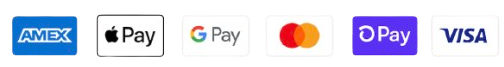
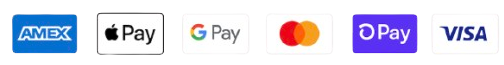
s

diff --git a/index.html b/index.html
@@ -687,7 +687,12 @@
 							<li><a href="#"><span class="icon fa fa-phone"></span><span class="text">037 217
 										300</span></a></li>
 							<li><a href="#"><span class="icon fa fa-paper-plane"></span><span
-										class="text">kmutnb@email.kmutnb.ac.th <img src="./images/payment/payment-removebg-preview.png" width="300px"></span></a></li>
+										class="text">kmutnb@email.kmutnb.ac.th <img
+											src="./images/payment/payment-removebg-preview.png"
+											width="300px"></span></a></li>
+							<!-- <li><a href="#"><span class="icon fa fa-money"></span><span class="text"><img
+											src="./images/payment/payment-removebg-preview.png"
+											width="300px"></span></a></li> -->
 						</ul>
 					</div>
 				</div>
